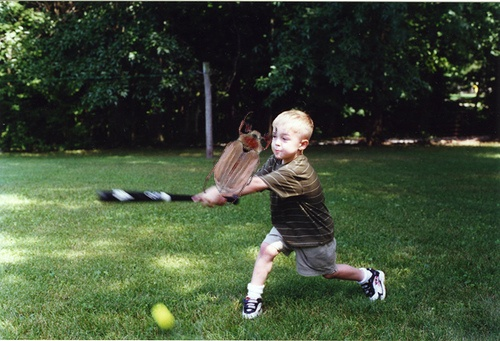
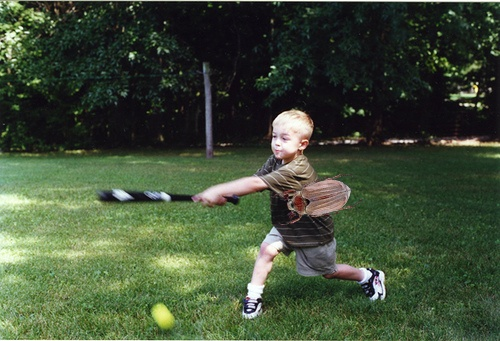
Added installation process, command line args and seed for the random number generator

Changed region(s): [[0.42, 0.3519, 0.57, 0.5865], [0.54, 0.4985, 0.72, 0.6745]]

diff --git a/vg-preprocessing/main.py b/vg-preprocessing/main.py
@@ -2,7 +2,7 @@ import cv2
 import numpy as np
 import os
 import random
-import pandas as pd
+import argparse
 
 # Source: https://stackoverflow.com/a/71701023 
 def add_transparent_image(background, foreground, x_offset=None, y_offset=None, rotation=0):
@@ -108,14 +108,35 @@ def find_valid_overlay_offsets(img_shape, overlay_shape, bounding_boxes):
         print("Could not find valid overlay placement.")
         return 0, 0, False
 
+print("----------------------------")
+print("Visual Genome Preprocessing")
+print("----------------------------\n")
 
+# Parse command line arguments
+parser = argparse.ArgumentParser()
+parser.add_argument("--source_directory", type=str, default="VG_100K_subset", help="Directory containing images to modify")
+parser.add_argument("--modified_directory", type=str, default="VG_100K_subset_modified", help="Directory to save modified images")
+parser.add_argument("--overlay_image_path", type=str, default="insert_objects/maikaefer.png", help="Path to overlay image")
+parser.add_argument("--seed", type=int, help="Seed for random number generator")
 
-source_directory = "VG_100K_subset"
-modified_directory = "VG_100K_subset_modified"
-overlay_image_path = 'insert_objects/maikaefer.png'
+args = parser.parse_args()
+
+source_directory = args.source_directory
+modified_directory = args.modified_directory
+overlay_image_path = args.overlay_image_path
 vg_bounding_boxes_path = '/mnt/orca/visual_genome/dataset/VG-SGG-dicts-with-attri.json'
+seed = args.seed
 
 os.makedirs(modified_directory, exist_ok=True)
+
+print(f"Reading images from {source_directory}")
+print(f"Using overlay image {overlay_image_path}")
+
+if seed is not None:
+    print(f"Using set seed {seed}")
+
+# Seed the random number generator for consistency and reproducibility
+random.seed(seed)
 
 overlay = cv2.imread(overlay_image_path, cv2.IMREAD_UNCHANGED)
 for image_name in os.listdir(source_directory):
@@ -127,18 +148,19 @@ for image_name in os.listdir(source_directory):
 
     scaled_overlay = scale_inpainted_image(img, rotated_overlay)
 
-    # x_offset = random.randint(0, img.shape[1] - scaled_overlay.shape[1])
-    # y_offset = random.randint(0, img.shape[0] - scaled_overlay.shape[0])
+    x_offset = random.randint(0, img.shape[1] - scaled_overlay.shape[1])
+    y_offset = random.randint(0, img.shape[0] - scaled_overlay.shape[0])
 
-    x_offset, y_offset, possible = find_valid_overlay_offsets(img.shape[:2], scaled_overlay.shape[:2], [(0, 0, 10, 10)])
-    if not possible:
-        continue
+    #x_offset, y_offset, possible = find_valid_overlay_offsets(img.shape[:2], scaled_overlay.shape[:2], [(0, 0, 10, 10)])
+    #if not possible:
+    #    continue
 
     add_transparent_image(img, scaled_overlay, x_offset, y_offset, rotation)
     modified_image_path = os.path.join(modified_directory, f"{os.path.splitext(image_name)[0]}_modified.jpg")
     cv2.imwrite(modified_image_path, img)
 
-
+print(f"Saved modified images to {modified_directory}")
+print("Done! :)")
 
 # TODO: 
 # Test split in create_vg_subset

diff --git a/README.md b/README.md
@@ -1,2 +1,30 @@
-# multimodal-ai
-Robustness of Scene Graph Generation Models to Object Inpainting
+# Evaluating the Robustness of Scene Graph Generation Models With Known and Unknown Objects Transplantation
+
+This repository contains the code needed for preprocessing the Visual Genome dataset.
+
+## Requirements
+- Create a new conda environment:
+```bash
+conda create --name multimodal-ai python=3.10
+``` 
+Note: The python version is 3.10, but any version of python 3 should work.
+- Activate the environment:
+```bash
+conda activate multimodal-ai
+```
+- Install the required packages:
+```bash
+pip install -r requirements.txt
+```
+
+## Preprocessing
+- TODO: Add instructions on how to obtain VG Dataset
+- Run the following command to preprocess the dataset:
+```bash
+python main.py
+```
+There are some parameters that can be passed to the script:
+- `--source_directory`: Path to the directory containing the Visual Genome dataset.
+- `--modified_directory`: Path to the directory where the modified dataset will be saved.
+- `--overlay_image_path`: Path to the overlay image.
+- `--seed`: Seed for the random number generator for reproducibility.
